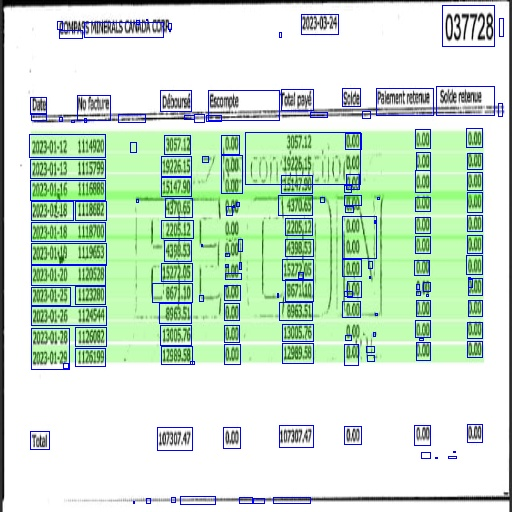
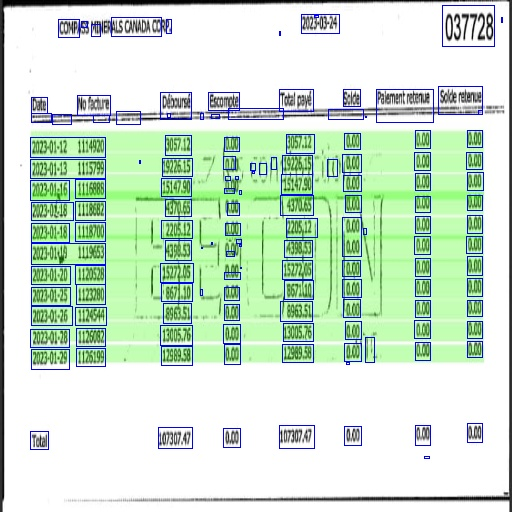
Making the file return coordinates of the line images

diff --git a/multi_stage_ocr/lineseg_inference.py b/multi_stage_ocr/lineseg_inference.py
@@ -7,7 +7,7 @@ import numpy as np
 def detect():
     model = unet(pretrained_weights="models/50.h5")
     img = cv2.imread("dataset/testing/1.jpeg", cv2.IMREAD_GRAYSCALE)
-    ret, img = cv2.threshold(img, 150, 255, cv2.THRESH_BINARY_INV)
+    ret, img = cv2.threshold(img, 127, 255, cv2.THRESH_BINARY_INV)
     img = cv2.resize(img, (512, 512))
     img = np.expand_dims(img, axis=-1)
     img = np.expand_dims(img, axis=0)
